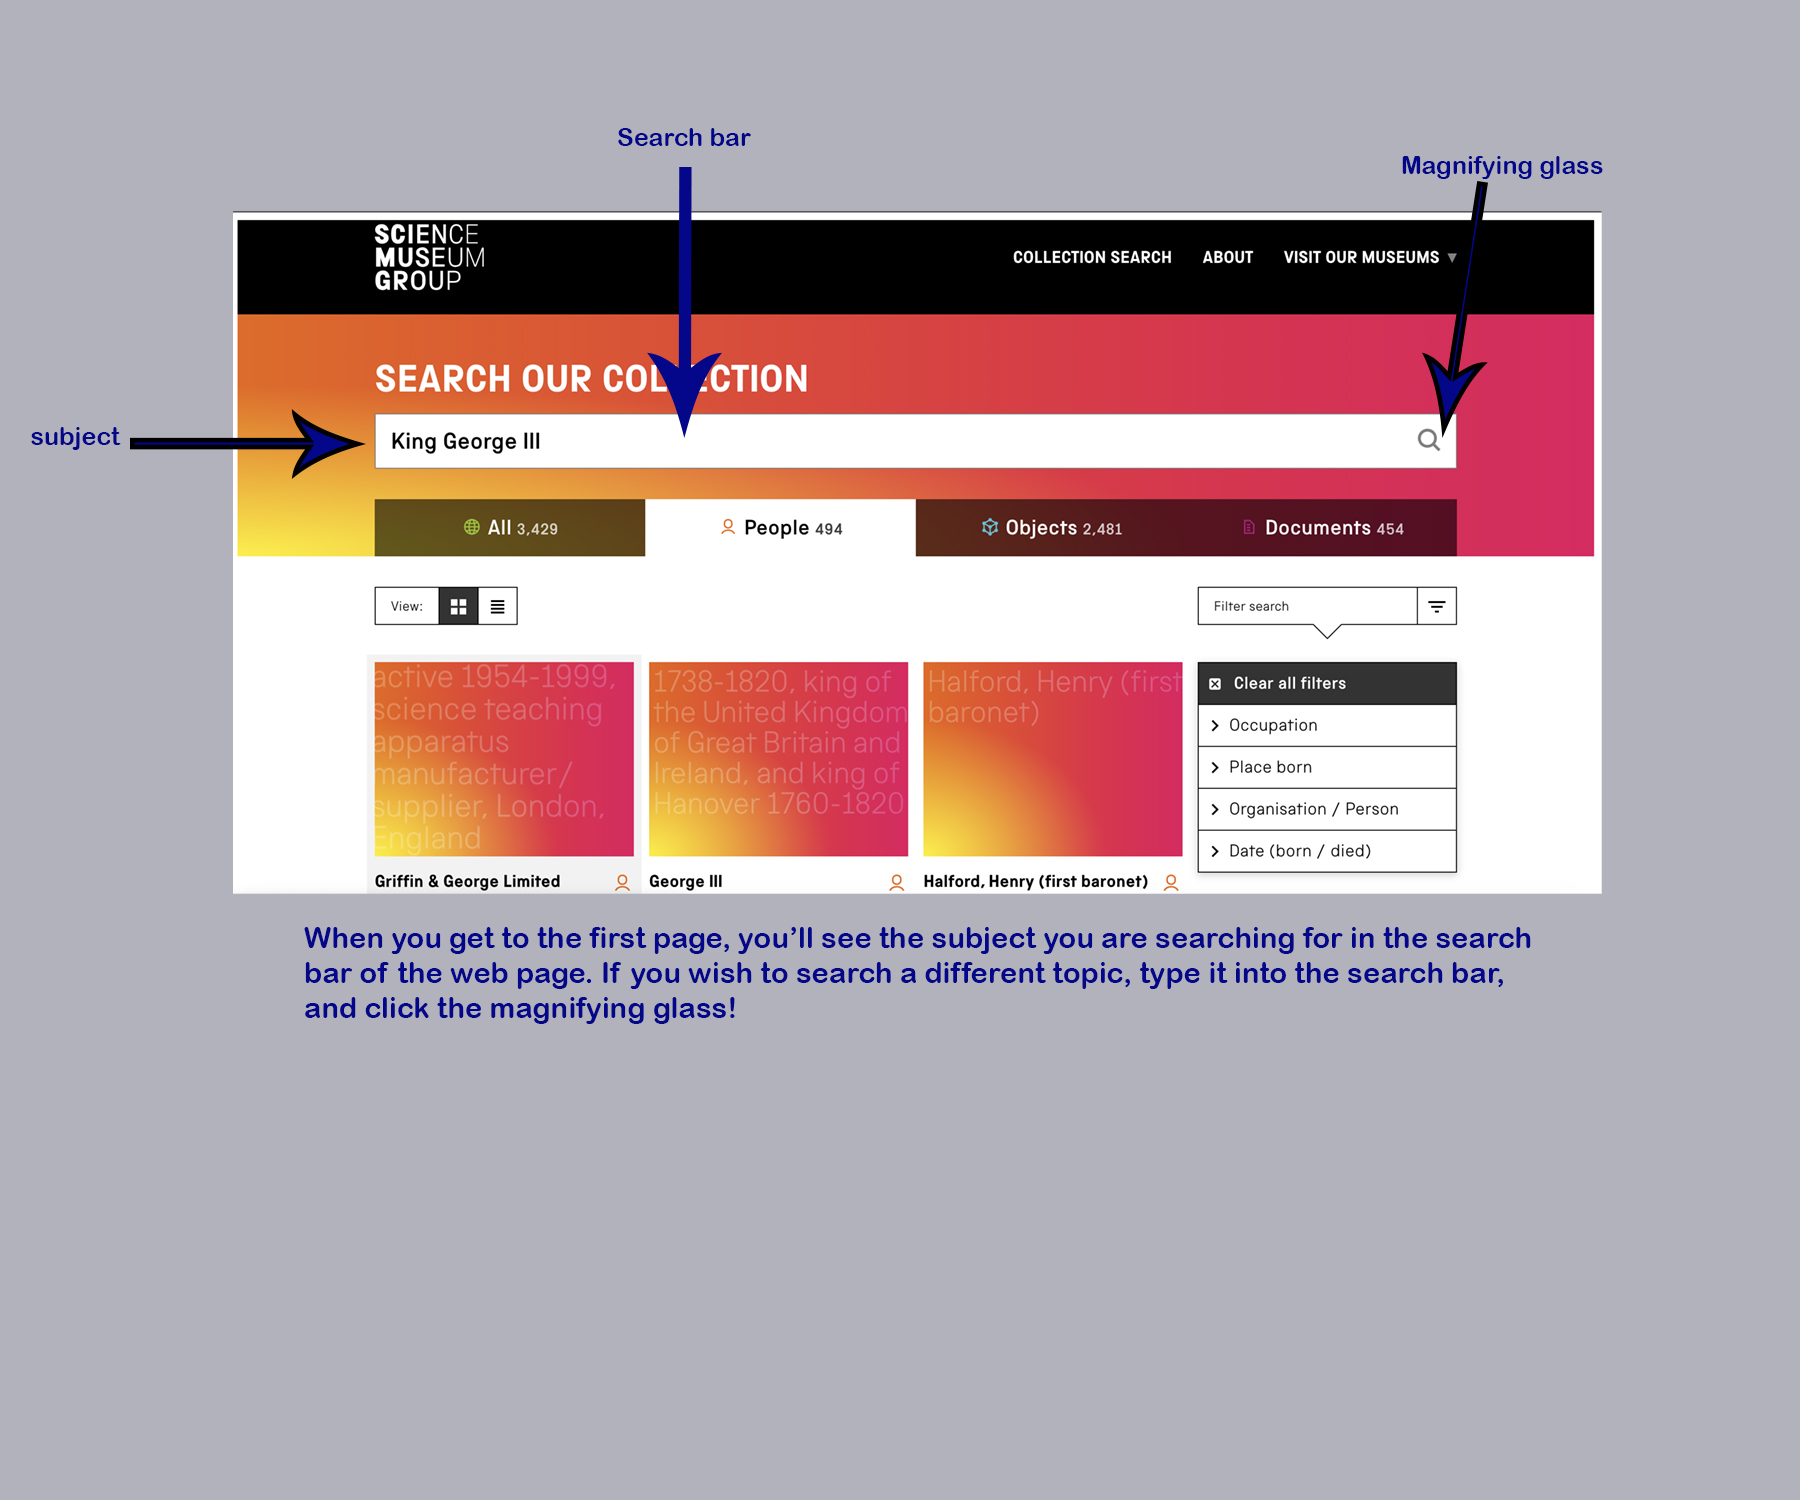
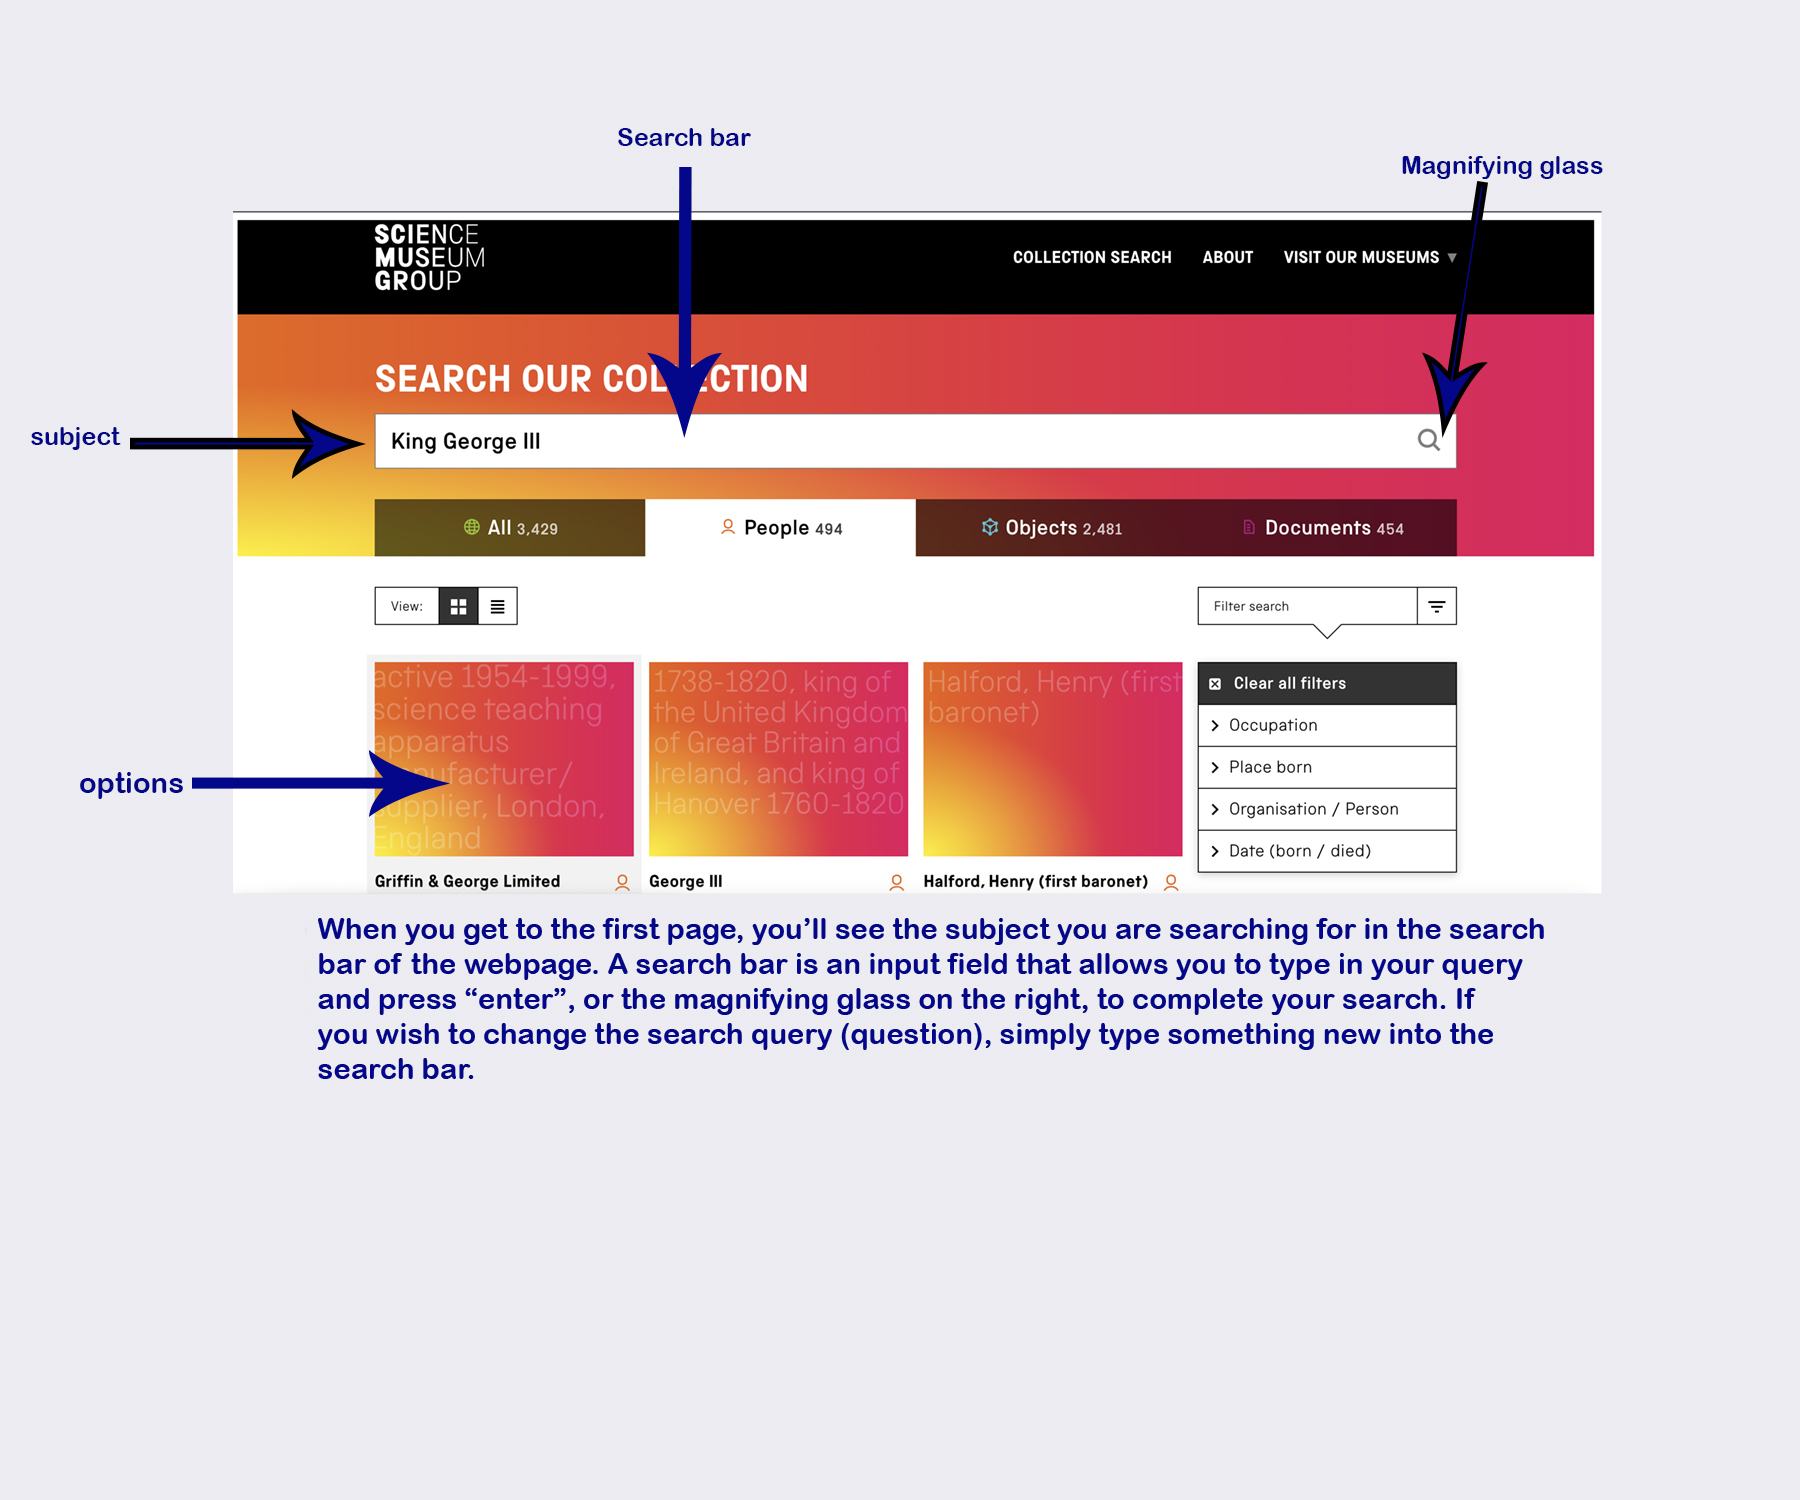
Finish editing images and redirecting for science help

diff --git a/index/kj_theme.css b/index/kj_theme.css
@@ -313,7 +313,7 @@ img {
 
 /* Modal Content/Box */
 .modal-content {
-  background-color: #b2b2bc;
+  background-color: #ececf1;
   margin: 15% auto; /* 15% from the top and centered */
   padding: 20px;
   border: 1px solid #888;

diff --git a/index/science_help.php b/index/science_help.php
@@ -11,7 +11,7 @@
 			<h2> It looks like you need help with Science!</h2>
 			<div style="display: inline-block;">
 				<p class="here-to-help">The <b>Science Museum</b> has all kinds of information on science. <br> Just type in your query below, and we'll redirect you to their app!</p>
-				<form id="help_form" action="http://kayjay:8888/index/science_museum.php" method="post">
+				<form target="_blank" id="help_form" action="http://kayjay:8888/index/science_museum.php" method="post">
 					<select class="dropdown-input" name="type">
 						<option value="people">People</option>
 						<option value="objects">Objects</option>
@@ -19,7 +19,7 @@
 			  	<input type="text" name="query" class="help-input" placeholder="search"><br>
 			  	<input id="myBtn" type="button" value="Submit" class="submit-button">
 				</form>
-					<p class="here-to-help">Once you're there, feel free to use the search bar (like the one above) <br> to make another request for information, or click on the images provided  <br> to read about the objects, people or places you have searched for.</p>
+					<p class="here-to-help">We will open a new <a href="https://www.computerhope.com/jargon/t/tabbrows.htm" target="_blank">tab</a> for you once you are ready to browse, <br>so that you may easily come back to this page whenever you are done!</p>
 			</div>
 			  <!-- CODE CITATION:
 	   		  Title: How to create a modal box

diff --git a/index/science_museum.php b/index/science_museum.php
@@ -1,15 +1,16 @@
 <?php
 
+/*CODE CITATION:
+  Title: How to close Browser Tab After Submitting a Form?
+  Author: Shaktit Singh StackOverflow
+  Date: 2011
+  Availability: https://stackoverflow.com/questions/8355316/how-to-close-browser-tab-after-submitting-a-form */
+
 $query = urlencode($_POST["query"]);
 $type = $_POST["type"];
 $url = "http://collection.sciencemuseum.org.uk/search/" . $type . "?q=" . $query . "&page[size]=3";
+
+header("Location: " . $url);
+echo "<script>window.close();</script>";
+exit;
 ?>
-<html>
-<body>
-	<a style="text-decoration:none; font-family: Arial Rounded MT Bold , Helvetica Rounded, Arial, sans-serif;" href="http://kayjay:8888/index/help.php"> << back to KayJay</a>
-	<div>
-		<iframe src=<?php echo $url; ?> width="100%" height="100%" frameBorder="0">
-		</iframe>
-	</div>
-</body>
-</html>
